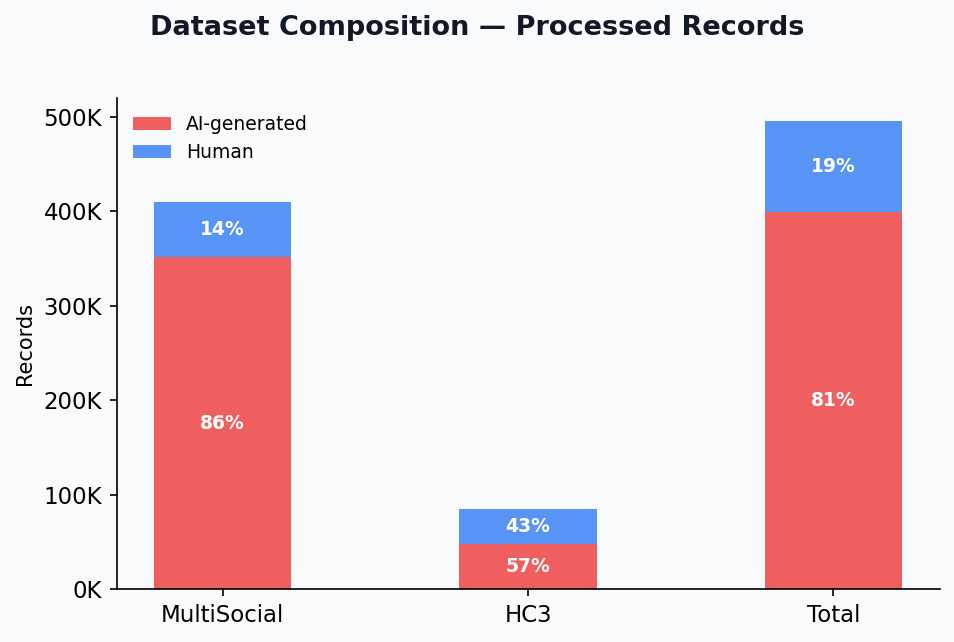
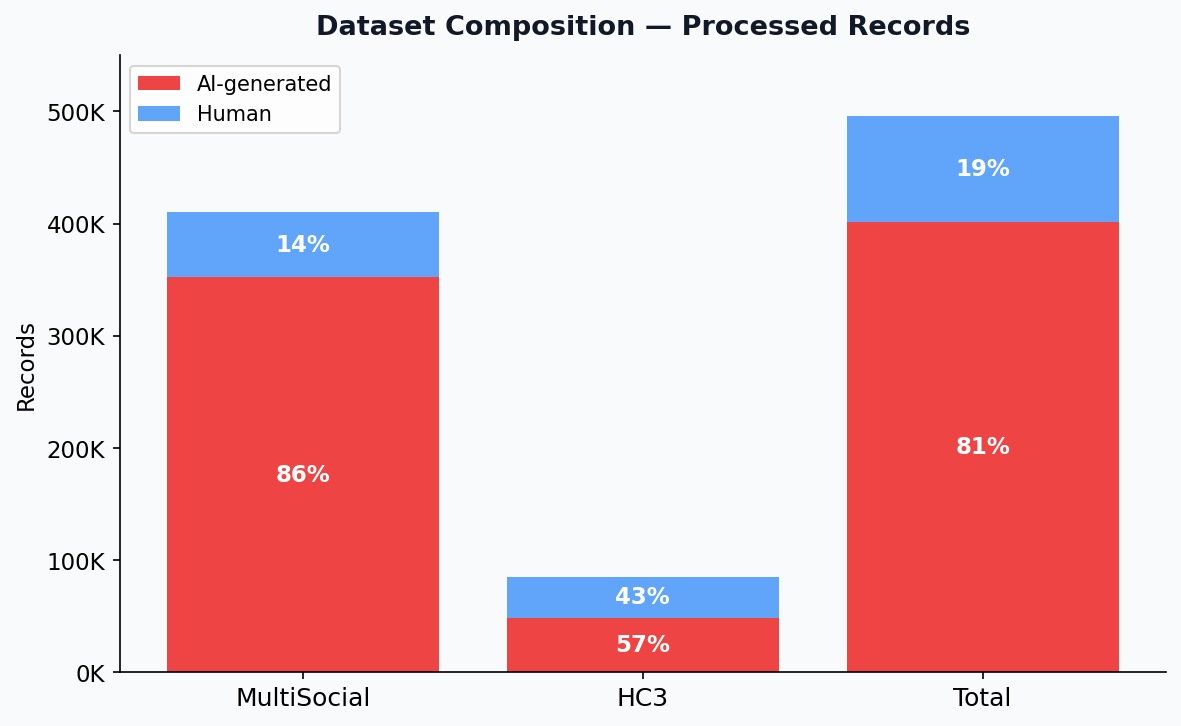
Add dataset composition figure and update presentation materials
- Implemented a new function in generate_figures.py to create a bar chart visualizing the composition of datasets used in the project, including AI-generated and human-generated records.
- Added a new configuration file, marp.config.js, to support local file usage in presentation slides.
- Updated the presentation script and slides to reflect changes in dataset descriptions and added new slides for key design decisions regarding datasets and pipeline architecture.
- Included the generated dataset composition figure in the presentation materials.

diff --git a/presentation/marp.config.js b/presentation/marp.config.js
@@ -1,0 +1,4 @@
+module.exports = {
+  allowLocalFiles: true,
+  html: true,
+}

diff --git a/presentation/generate_figures.py b/presentation/generate_figures.py
@@ -151,8 +151,50 @@ def fig_leakage_prevention():
     print(f"Saved {path}")
 
 
+# ── Figure 3: Dataset Composition ───────────────────────────────────────────
+def fig_dataset_composition():
+    fig, ax = plt.subplots(figsize=(8, 5))
+    fig.patch.set_facecolor(BG)
+    ax.set_facecolor(BG)
+
+    # Approximate counts derived from processed corpus (410,087 + 85,418 = 495,505)
+    datasets = ["MultiSocial", "HC3", "Total"]
+    ai_counts    = [352_675,  48_688, 401_363]
+    human_counts = [ 57_412,  36_730,  94_142]
+    totals       = [a + h for a, h in zip(ai_counts, human_counts)]
+
+    x = range(len(datasets))
+    bars_ai    = ax.bar(x, ai_counts,    color="#EF4444", label="AI-generated")
+    bars_human = ax.bar(x, human_counts, bottom=ai_counts, color="#60A5FA", label="Human")
+
+    # Percentage labels inside bars
+    for i, (a, h, t) in enumerate(zip(ai_counts, human_counts, totals)):
+        ax.text(i, a / 2,         f"{round(a/t*100)}%", ha="center", va="center",
+                fontsize=11, fontweight="bold", color="white")
+        ax.text(i, a + h / 2,     f"{round(h/t*100)}%", ha="center", va="center",
+                fontsize=11, fontweight="bold", color="white")
+
+    ax.set_xticks(list(x))
+    ax.set_xticklabels(datasets, fontsize=12)
+    ax.set_ylabel("Records", fontsize=11)
+    ax.yaxis.set_major_formatter(plt.FuncFormatter(lambda v, _: f"{int(v/1000)}K"))
+    ax.set_ylim(0, 550_000)
+    ax.legend(loc="upper left", fontsize=10)
+    ax.set_title("Dataset Composition — Processed Records",
+                 fontsize=13, fontweight="bold", color="#111827", pad=10)
+    ax.spines["top"].set_visible(False)
+    ax.spines["right"].set_visible(False)
+    fig.patch.set_facecolor(BG)
+    plt.tight_layout()
+    path = os.path.join(OUT, "dataset_composition.png")
+    plt.savefig(path, dpi=150, bbox_inches="tight", facecolor=BG)
+    plt.close()
+    print(f"Saved {path}")
+
+
 if __name__ == "__main__":
     print("Generating figures...")
+    fig_dataset_composition()
     fig_pipeline()
     fig_leakage_prevention()
     print("Done. Figures saved to presentation/figures/")

diff --git a/presentation/script.md b/presentation/script.md
@@ -1,51 +1,61 @@
 # Presentation Script — Data Preparation
-**Speaker: Yu Taek Lee**
+**NTU AI6130 Group G30**
 
 ---
 
-## Section Title Slide
+## Slide 1 — Section Title
 *~15 seconds*
 
 > "I'll cover Data Preparation — the foundation everything else builds on. My job was to take raw datasets and produce clean, leakage-free training and evaluation artifacts for the team."
 
 ---
 
-## Slide 1 — Datasets
+## Slide 2 — Datasets
 *~45 seconds*
 
-> "We work with three datasets. **MultiSocial** is an ACL 2025 dataset — 410,000 processed records from real social media posts across five platforms and 22 languages, generated by seven different AI models. It's our main source of training diversity. **HC3** adds 85,000 processed records of human and ChatGPT answers in English."
+> "We work with three datasets. **MultiSocial** is the main social-text corpus — about 410,000 processed records with source tags spanning five platforms and 22 languages. It's our main source of training diversity. **HC3** adds 85,000 processed records of human and ChatGPT answers in English."
 >
 > "Together that's 495,000 records in the training corpus. **RAID** is kept completely separate — it's an adversarial benchmark of 671,000 eval texts, never mixed into training or validation."
 
 ---
 
-## Slide 2 — Pipeline Architecture
-*~60 seconds*
+## Slide 3 — Key Design Decisions: Datasets
+*~30 seconds*
 
-> "The pipeline runs in five steps. Download, preprocess into a unified schema, embed with Gemini Embedding 2, build a FAISS index, then assemble training files. Each step writes a persistent artifact, so the whole pipeline is resumable."
->
-> "The embedding model is Gemini Embedding 2, using the CLASSIFICATION task type. Each of the 495K texts becomes a 768-dimensional vector: 1.4 gigabytes total. The pipeline checkpoints every 10K texts, so it's fully resumable."
+> "One thing worth calling out here: MultiSocial and HC3 use different column names across their raw files. Rather than hardcoding field mappings, I wrote auto-discovery logic so the same script ingests both datasets and produces one normalized schema. That keeps all downstream training code dataset-agnostic."
 
 ---
 
-## Slide 3 — Key Design Decisions
-*~75 seconds*
+## Slide 4 — Pipeline Architecture
+*~45 seconds*
 
-> "Three things I want to highlight. First, schema unification — MultiSocial and HC3 use different column names, so I wrote auto-discovery logic rather than hardcoding mappings."
+> "The pipeline runs in five steps: download, preprocess into that unified schema, embed with Gemini Embedding 2, build a FAISS index, then assemble training files. Each step writes a persistent artifact, so the whole pipeline is resumable."
 >
-> "Second, leakage prevention. The FAISS index is built on the training split only. When a val or test example queries for RAG neighbors, it can only retrieve training examples — held-out data is never indexed and can never appear as context."
->
-> "Third, class imbalance. The raw corpus is 80% AI, 20% human. We produce a balanced 50/50 variant by undersampling, giving 133K records. Both imbalanced and balanced variants are provided."
+> "The embedding model uses the CLASSIFICATION task type. Each of the 495K texts becomes a 768-dimensional vector — 1.4 gigabytes total. The pipeline checkpoints every 10K texts."
 
 ---
 
-## Slide 4 — What Was Handed Off
+## Slide 5 — Key Design Decisions: Pipeline
 *~40 seconds*
 
-> "Here's what was produced for downstream use. The corpus, embeddings, FAISS index, and splits are the shared foundation. The training files come in four variants: with and without RAG context, standard and balanced. The balanced RAG file is a ready-to-train handoff artifact at 221 MB."
+> "The most important decision here is leakage prevention. The FAISS index is built on the training split only. When a val or test example queries for RAG neighbors, it can only retrieve training examples — held-out data is never indexed and can never appear as context for itself."
+>
+> "Every stage also writes a persistent artifact rather than keeping state in memory, so long embedding or indexing jobs can restart from checkpoints instead of from zero."
+
+---
+
+## Slide 6 — What Was Handed Off
+*~40 seconds*
+
+> "Here's what was produced for downstream use. The corpus, embeddings, FAISS index, and splits are the shared foundation. The training files come in four variants: with and without RAG context, standard and balanced — twelve files total."
 >
 > "On RAID: pre-computed embeddings were started but the run was stopped partway through. The checkpoint has 450,000 of 671,000 vectors saved and can be resumed if full adversarial evaluation is needed."
 
 ---
 
-*Total estimated speaking time: ~3.5 minutes*
+## Slide 7 — Key Design Decisions: Handoff
+*~30 seconds*
+
+> "The raw corpus is 80% AI, 20% human. To give the downstream team a choice, we produce a balanced 50/50 variant by undersampling, giving 133K records. Both imbalanced and balanced variants are provided — the model team decides which to train on."
+>
+> "The checkpointed RAID embeddings were handed off rather than blocking on full completion, so the team can resume adversarial evaluation without rerunning the work already done."

diff --git a/presentation/slides.md b/presentation/slides.md
@@ -17,6 +17,10 @@ style: |
   table { font-size: 0.82em; border-collapse: collapse; width: 100%; }
   th { background: #DBEAFE; color: #1E3A8A; padding: 6px 10px; }
   td { padding: 5px 10px; border-bottom: 1px solid #E5E7EB; }
+  img {
+    display: block;
+    margin: 0.5rem auto;
+  }
   .tag {
     display: inline-block;
     background: #EDE9FE;
@@ -33,7 +37,7 @@ style: |
 
 # Data Preparation
 
-**Yu Taek Lee** · NTU AI6130 Group G30
+**NTU AI6130 Group G30**
 
 ---
 
@@ -45,19 +49,37 @@ Processed records used in this pipeline:
 
 | Dataset | Records | Description | Role |
 |---------|--------:|-------------|------|
-| **MultiSocial** | 410,087 | 7 AI models · 5 platforms · 22 languages | Training + eval |
+| **MultiSocial** | 410,087 | Social-text corpus · 22 languages · source tags spanning 5 platforms | Training + eval |
 | **HC3** | 85,418 | Processed human / ChatGPT answer records (English) | Training |
 | **RAID** | 671,391 | Adversarial eval texts (local `raid_eval.jsonl`) | Eval only |
 | **Total corpus** | **495,505** | MultiSocial + HC3 · stratified 70 / 15 / 15 | — |
 
-<br>
+![w:520](figures/dataset_composition.png)
 
-- MultiSocial: real social media posts across Twitter, Discord, Telegram, Gab, WhatsApp
+- MultiSocial includes source tags spanning Twitter, Discord, Telegram, Gab, and WhatsApp
 - RAID is kept **separate**: never mixed into training or validation
 
 ---
 
-<!-- ─── SLIDE 2: PIPELINE ──────────────────────────────────────── -->
+<!-- ─── SLIDE 2: DATASET DECISIONS ─────────────────────────────── -->
+
+## Key Design Decisions: Datasets
+
+### Dataset Boundary
+- MultiSocial + HC3 form the reusable training corpus
+- RAID stays eval-only to preserve adversarial benchmark integrity
+
+### Unified Schema
+- Column auto-discovery absorbs naming variation across datasets
+- One normalized schema keeps downstream training code dataset-agnostic
+
+### Text Cleaning Rules
+- URLs mapped to `[URL]`, whitespace collapsed, very short rows removed
+- Cleaning is deterministic so artifacts can be regenerated exactly
+
+---
+
+<!-- ─── SLIDE 3: PIPELINE ──────────────────────────────────────── -->
 
 ## Pipeline Architecture
 
@@ -68,28 +90,27 @@ Processed records used in this pipeline:
 
 ---
 
-<!-- ─── SLIDE 3: KEY DESIGN DECISIONS ────────────────────────── -->
+<!-- ─── SLIDE 4: PIPELINE DECISIONS ───────────────────────────── -->
 
-## Key Design Decisions
-
-### Unified Schema
-- Column auto-discovery handles naming variations across datasets
-- Text cleaning: URLs → `[URL]`, whitespace collapsed, < 5-word records dropped
+## Key Design Decisions: Pipeline
 
 ### Leakage Prevention
-![w:760 float:right](figures/leakage_prevention.png)
+![w:760](figures/leakage_prevention.png)
 - FAISS index built on **train split only**
 - Val/test query the index but are never indexed
 - Retrieval neighbors are always training examples
 
-### Class Imbalance
-- Raw corpus: 80.7% AI / 19.3% human (4.18 : 1)
-- Balanced variant: undersample → **50 / 50**, 133K records
-- Both variants provided; downstream team chooses
+### Resumability
+- Every stage writes a persistent artifact rather than keeping state in memory
+- Long embedding/index jobs can restart from checkpoints instead of from zero
+
+### Embedding Choice
+- Gemini Embedding 2 is used with CLASSIFICATION task type
+- 768-dim vectors balance retrieval quality and manageable storage cost
 
 ---
 
-<!-- ─── SLIDE 4: OUTPUTS ───────────────────────────────────────── -->
+<!-- ─── SLIDE 5: HANDOFF ──────────────────────────────────────── -->
 
 ## What Was Handed Off
 
@@ -106,3 +127,22 @@ Processed records used in this pipeline:
 <br>
 
 > **RAID embeddings: 450,000 / 671,391 (67%) saved in checkpoint.** Resumable if full adversarial evaluation is needed.
+
+---
+
+<!-- ─── SLIDE 6: HANDOFF DECISIONS ────────────────────────────── -->
+
+## Key Design Decisions: Handoff
+
+### Class Imbalance
+- Raw corpus: 80.7% AI / 19.3% human (4.18 : 1)
+- Balanced variant: undersample → **50 / 50**, 133K records
+- Both variants provided; downstream team chooses
+
+### Artifact Packaging
+- Shared artifacts are split by function: corpus, embeddings, index, and splits
+- This lets EDA, baseline models, and RAG pipelines consume the same foundation
+
+### Partial RAID Delivery
+- Checkpointed RAID embeddings were handed off instead of blocking on full completion
+- Team can resume adversarial evaluation later without rerunning completed work
